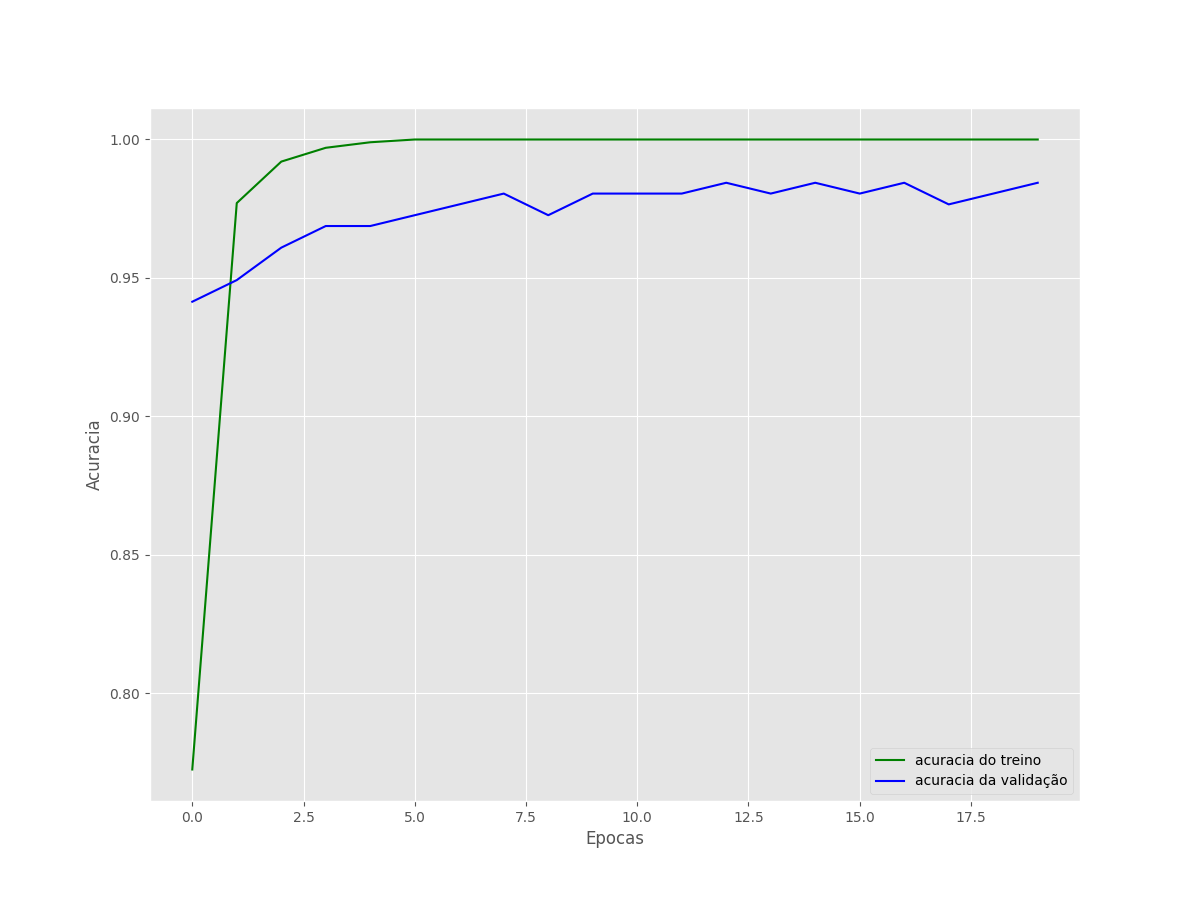
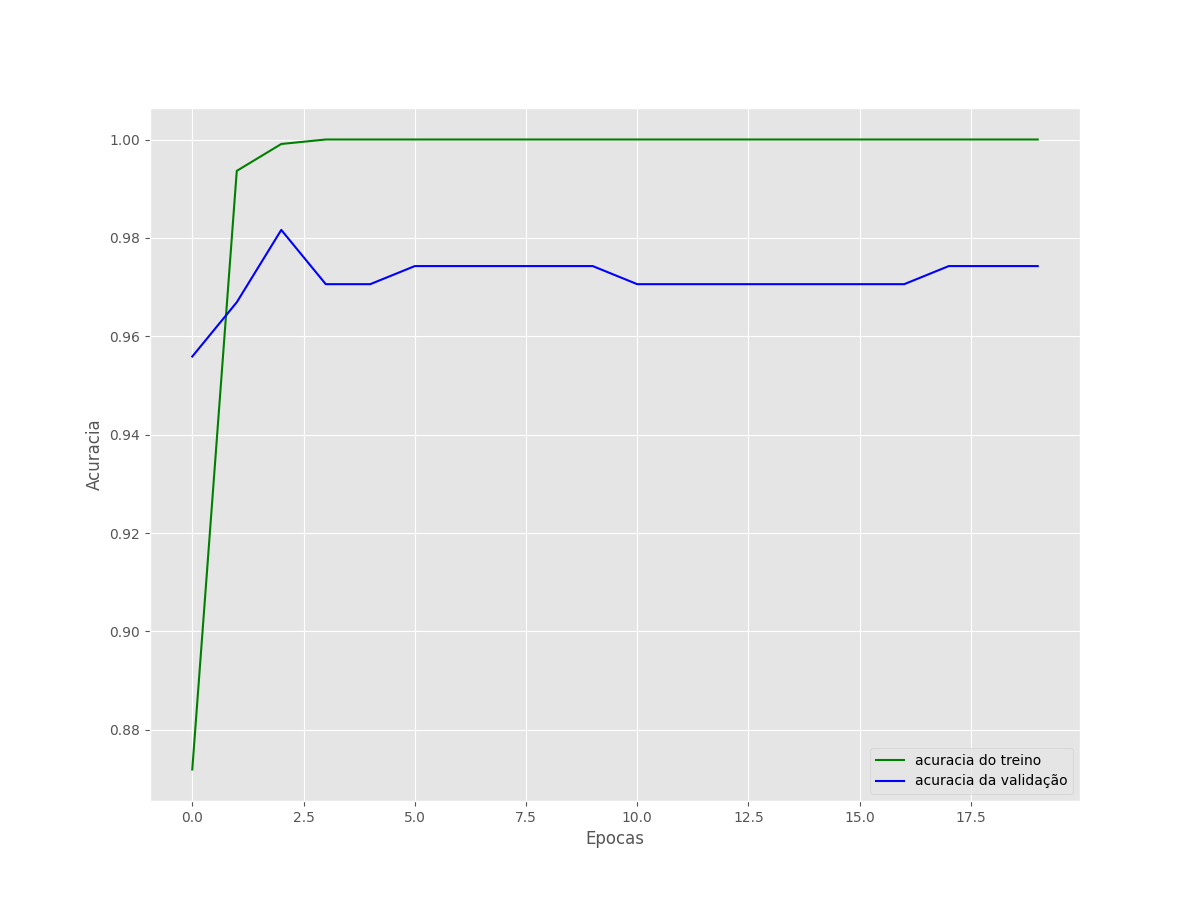
fix: ajeitado a menira de inserir datasets

diff --git a/main.py b/main.py
@@ -10,26 +10,27 @@ TRAINING_DATA_DIR = "input/training/training/"
 VALID_DATRA_DIR = "input/validation/validation/"
 EPOCHS = 20
 BATCH_SIZE = 34
+AUTOTUNE = tf.data.AUTOTUNE
+
+res = tf.keras.layers.Rescaling(1./255, input_shape=INPUT_SHAPE)
 
 def build_model(num_classes):
-    tf.keras.Sequential([tf.keras.layers.Conv2D(filters=8, kernel_size=(3, 3), activation='relu', 
-                           padding="same"),
+    model = tf.keras.Sequential([
+        res,
+        tf.keras.layers.Conv2D(filters=8, kernel_size=(3, 3), activation='relu', padding="same"),
         tf.keras.layers.MaxPooling2D(pool_size=(2, 2), strides=2),
-        tf.keras.layers.Conv2D(filters=16, kernel_size=(3, 3), activation='relu'),
+        tf.keras.layers.Conv2D(filters=16, kernel_size=(3, 3), activation='relu', padding="same"),
         tf.keras.layers.MaxPooling2D(pool_size=(2, 2), strides=2),
-        tf.keras.layers.Conv2D(filters=32, kernel_size=(3, 3), activation='relu'),
+        tf.keras.layers.Conv2D(filters=32, kernel_size=(3, 3), activation='relu', padding="same"),
         tf.keras.layers.MaxPooling2D(pool_size=(2, 2), strides=2),
-        tf.keras.layers.Flatten(),
+        tf.keras.layers.Conv2D(filters=64, kernel_size=(3, 3), activation='relu', padding="same"),
+        tf.keras.layers.MaxPooling2D(pool_size=(2, 2), strides=2),
         tf.keras.layers.Dense(64, activation='relu'),
         tf.keras.layers.Dense(num_classes, activation='softmax')
     ])
     return model
 
 def build_model_tranfer(num_classes : int):
-    data_augmentation = tf.keras.Sequential([
-        tf.keras.layers.RandomFlip("horizontal", input_shape=INPUT_SHAPE),
-    ], "augmentation")
-
     # Pegamos o modelo pré-pronto
     model_v2_layer = tf.keras.applications.MobileNetV2(
         input_shape=INPUT_SHAPE,
@@ -38,8 +39,10 @@ def build_model_tranfer(num_classes : int):
     )
     model_v2_layer.trainable = False # IMPORTANTE! Não quemos mudar os pesos da rede neural
 
+    model_v2_layer.summary()
+
     model = tf.keras.Sequential([
-        data_augmentation,
+        res,
         model_v2_layer,
         tf.keras.layers.GlobalAveragePooling2D(),
         tf.keras.layers.Flatten(),
@@ -88,27 +91,37 @@ def save_plots(train_acc, valid_acc, train_loss, valid_loss):
 
 matplotlib.style.use("ggplot")
 
-datagen = tf.keras.preprocessing.image.ImageDataGenerator(rescale=1./255)
+train_ds = tf.keras.utils.image_dataset_from_directory(
+    TRAINING_DATA_DIR,
+    image_size=IMAGE_SHAPE,
+    batch_size=BATCH_SIZE,
+    label_mode="categorical",
+    shuffle=True)
 
-train_generator = datagen.flow_from_directory(TRAINING_DATA_DIR, shuffle=True, target_size=IMAGE_SHAPE)
+valid_ds = tf.keras.utils.image_dataset_from_directory(
+    VALID_DATRA_DIR,
+    image_size=IMAGE_SHAPE,
+    batch_size=BATCH_SIZE,
+    label_mode="categorical",
+    shuffle=True)
 
-valid_generator = datagen.flow_from_directory(VALID_DATRA_DIR, shuffle=True, target_size=IMAGE_SHAPE)
+train_ds_flipped = train_ds.map(lambda x,y : (tf.image.flip_left_right(x), y))
+train_ds = train_ds.concatenate(train_ds_flipped).shuffle(BATCH_SIZE)
 
-model = build_model_tranfer(num_classes=10)
+train_ds = train_ds.cache().prefetch(buffer_size=AUTOTUNE)
+valid_ds = valid_ds.cache().prefetch(buffer_size=AUTOTUNE)
+
+model = build_model(num_classes=10)
 model.compile(optimizer=tf.keras.optimizers.Adam(learning_rate=0.001),
-              loss=tf.keras.losses.CategoricalCrossentropy(from_logits=False),
-              metrics=['accuracy']
-              )
+              loss=tf.keras.losses.CategoricalCrossentropy(from_logits=True),
+              metrics=['accuracy'])
 
 model.summary()
 
-history = model.fit(train_generator,
-                    steps_per_epoch=train_generator.samples // BATCH_SIZE,
+history = model.fit(train_ds,
                     epochs=EPOCHS,
-                    validation_data=valid_generator,
-                    validation_steps=valid_generator.samples // BATCH_SIZE,
-                    verbose=1
-                )
+                    validation_data=valid_ds,
+                    verbose=1)
 
 train_loss = history.history['loss']
 train_acc = history.history['accuracy']
